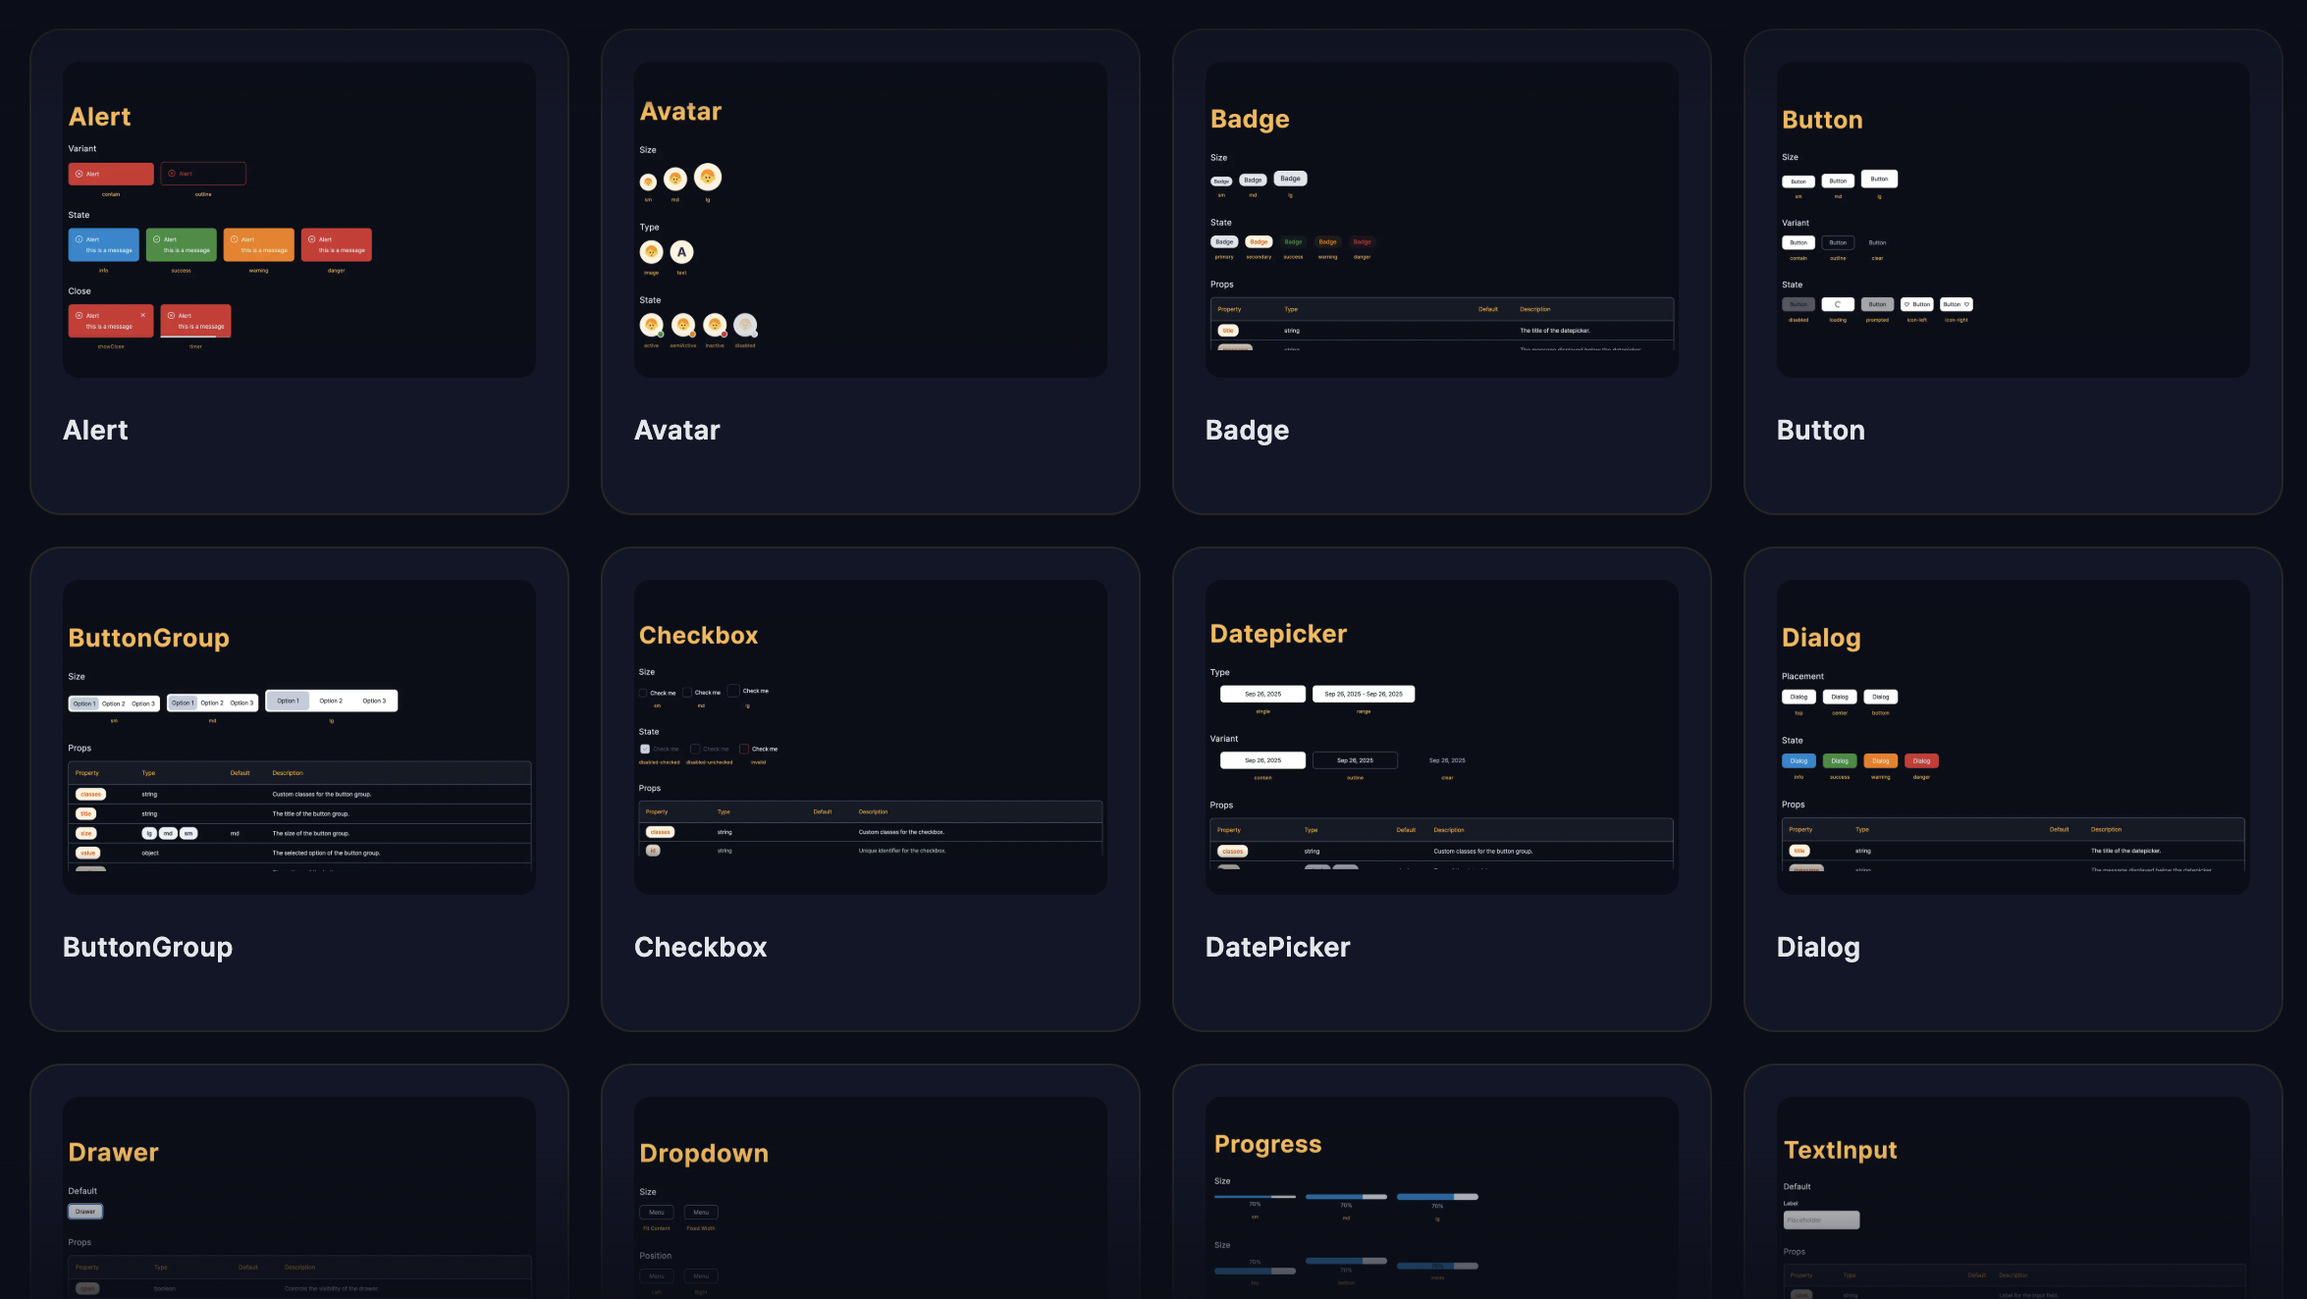
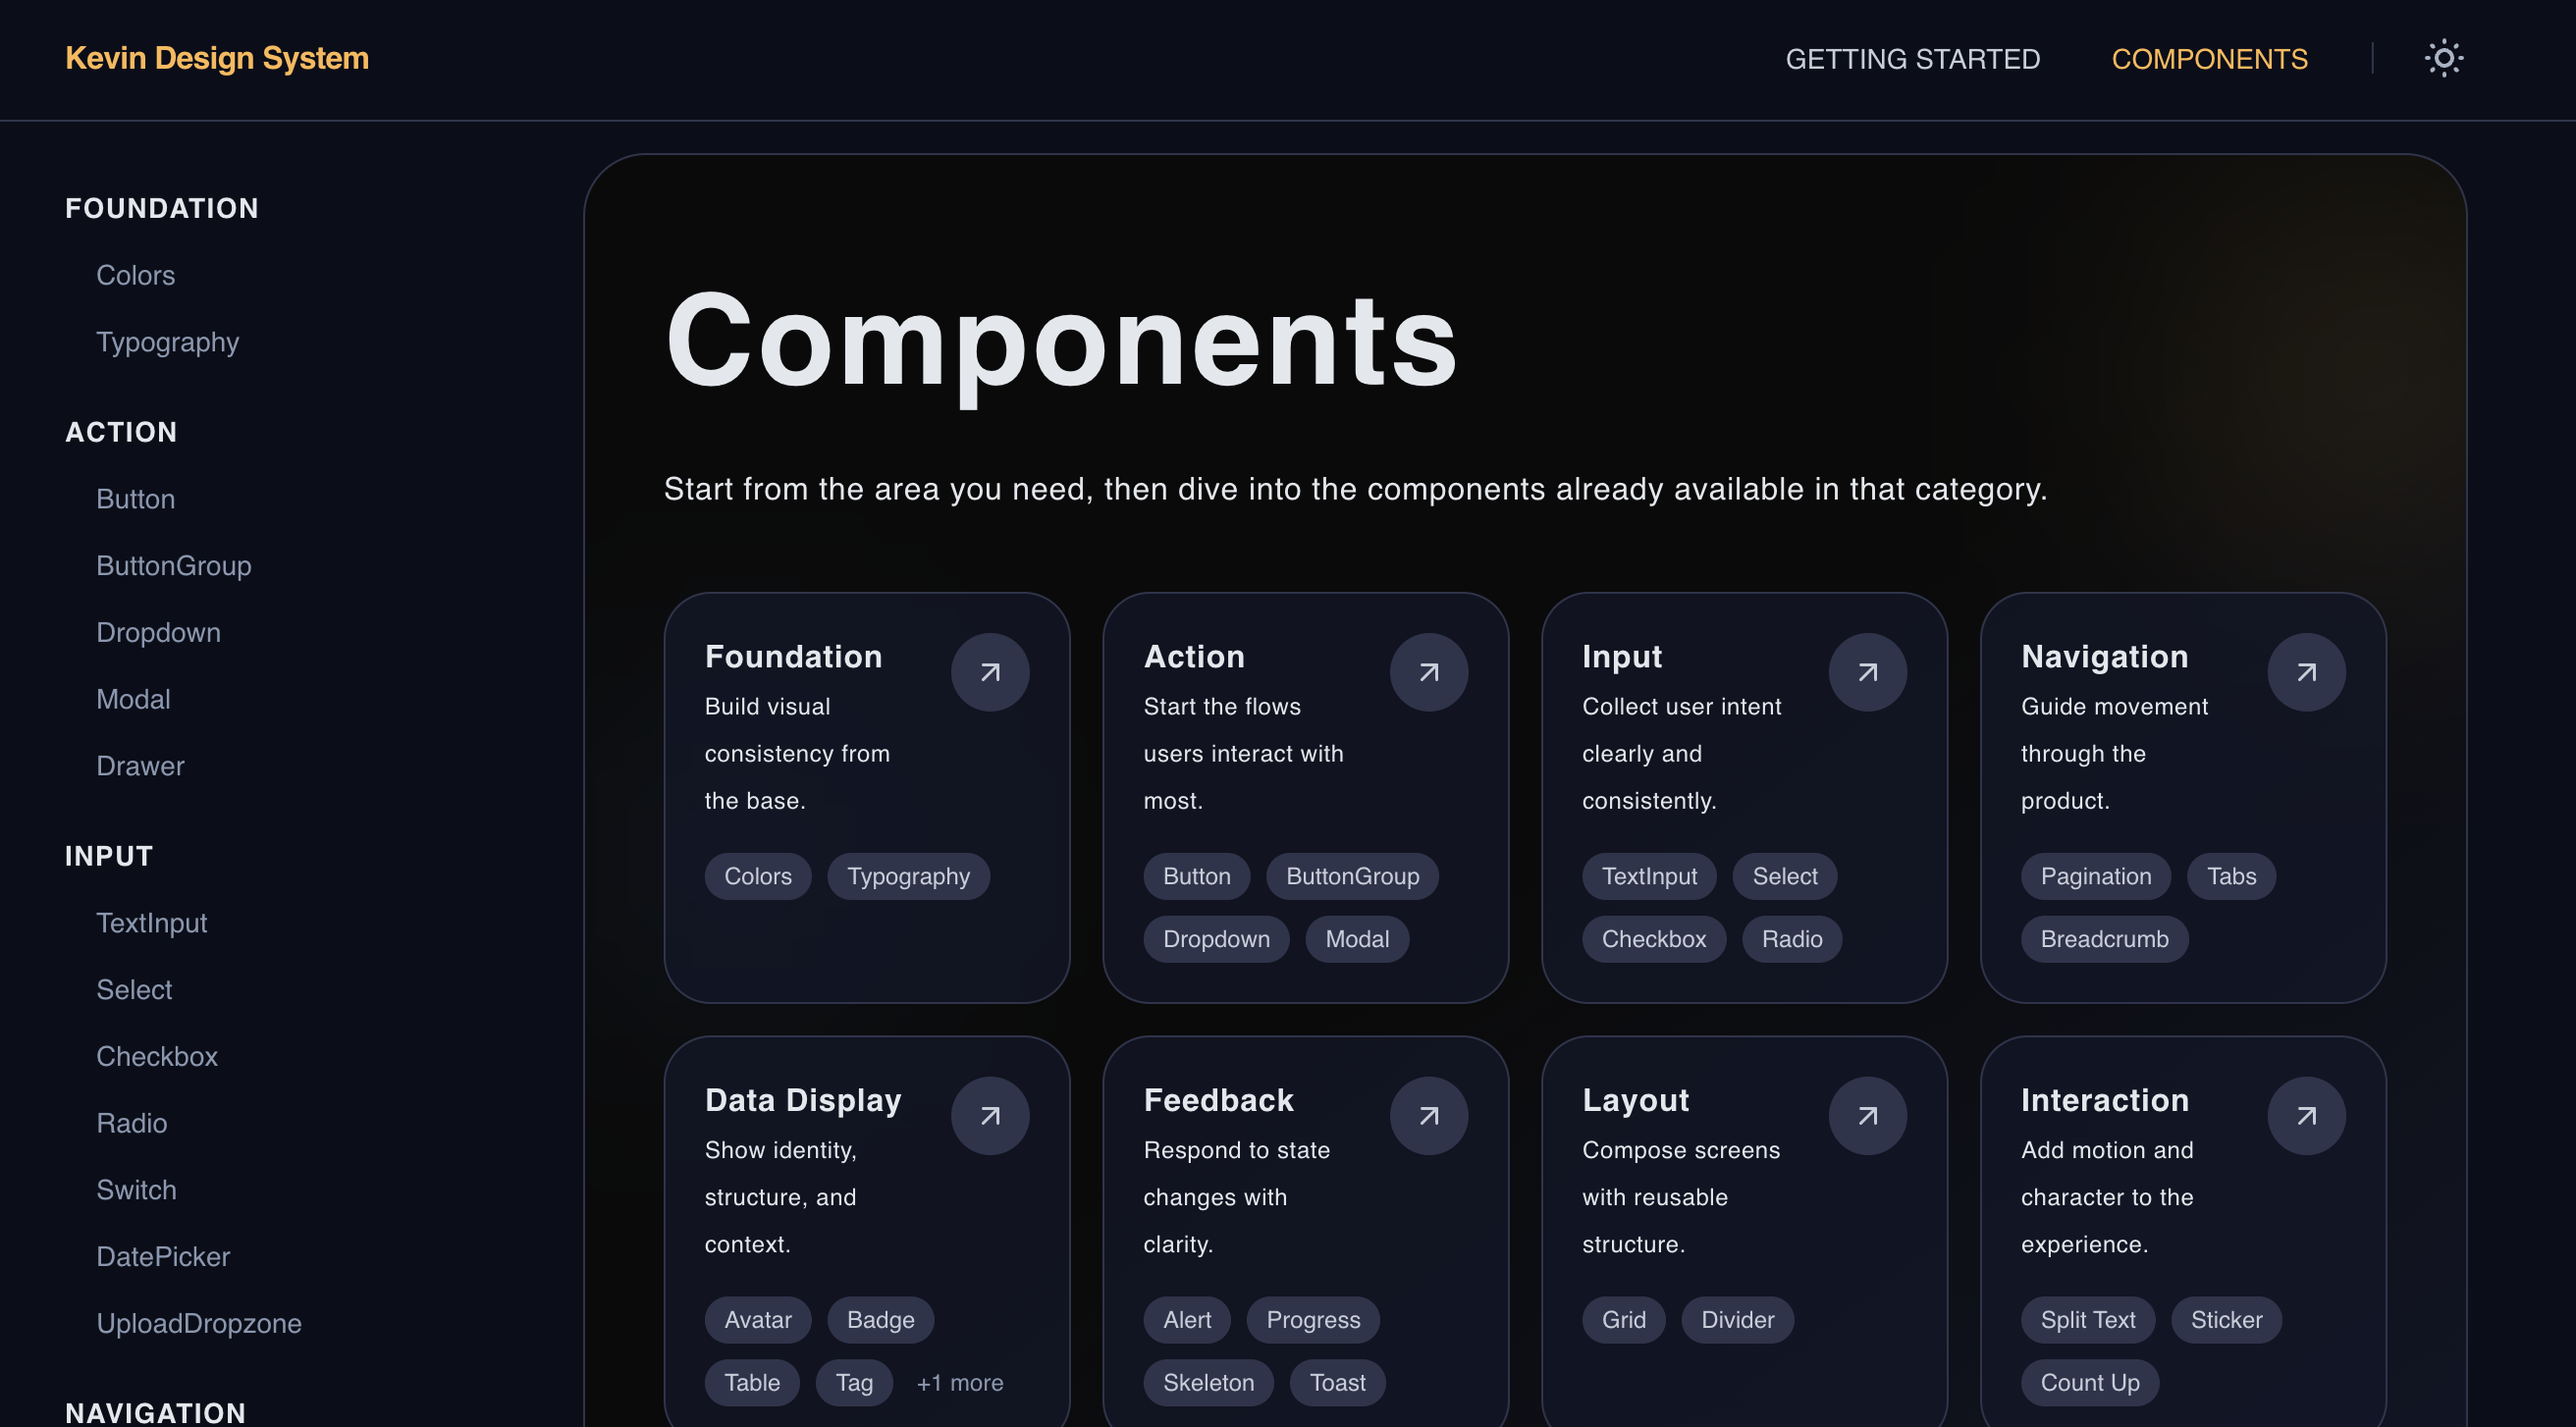
Update design system links and button behavior

diff --git a/src/design-system/components/Button.tsx b/src/design-system/components/Button.tsx
@@ -3,113 +3,170 @@
 'use client';
 
 import classNames from 'classnames';
-import { motion } from 'framer-motion';
+import { AnimatePresence, motion } from 'framer-motion';
 import React from 'react';
+import { LuArrowUpRight } from 'react-icons/lu';
 
-const Button = React.forwardRef((props: Common.ButtonProps, ref: React.Ref<HTMLButtonElement>) => {
+const baseClasses =
+  'inline-flex items-center justify-center rounded-lg text-center font-medium transition-all duration-200 ease-in-out select-none outline-none disabled:cursor-not-allowed disabled:opacity-50 active:scale-[0.97]';
+
+const sizeClasses: Record<Common.ButtonSize, string> = {
+  sm: 'h-[30px] px-2.5 text-xs gap-1.5',
+  md: 'h-[36px] px-4 text-sm gap-2',
+  lg: 'h-[44px] px-6 text-base gap-2.5',
+};
+
+const variantColorClasses: Record<
+  Common.ButtonVariant,
+  Record<Common.ButtonColor, string>
+> = {
+  contain: {
+    primary: 'bg-primary-100 text-primary-800 hover:bg-primary-200 active:bg-primary-200',
+    neutral: 'bg-neutral-800 text-white hover:bg-neutral-700 active:bg-neutral-700',
+    info: 'bg-info text-white hover:opacity-90',
+    success: 'bg-success text-white hover:opacity-90',
+    warning: 'bg-warning text-white hover:opacity-90',
+    danger: 'bg-danger text-white hover:opacity-90',
+  },
+  outline: {
+    primary: 'border border-primary-500 text-primary-300 hover:bg-primary-800/20',
+    neutral: 'border border-neutral-500 text-neutral-100 hover:bg-neutral-800/60',
+    info: 'border border-info text-info hover:bg-info/10',
+    success: 'border border-success text-success hover:bg-success/10',
+    warning: 'border border-warning text-warning hover:bg-warning/10',
+    danger: 'border border-danger text-danger hover:bg-danger/10',
+  },
+  clear: {
+    primary: 'text-primary-300 hover:bg-primary-800/20',
+    neutral: 'text-neutral-100 hover:bg-neutral-800/60',
+    info: 'text-info hover:bg-info/10',
+    success: 'text-success hover:bg-success/10',
+    warning: 'text-warning hover:bg-warning/10',
+    danger: 'text-danger hover:bg-danger/10',
+  },
+};
+
+const Button = React.forwardRef<
+  HTMLButtonElement | HTMLAnchorElement,
+  Common.ButtonProps
+>((props, ref) => {
   const {
-    classes = '',
+    classes,
+    className,
     type = 'button',
     children = null,
     size = 'md',
     variant = 'contain',
     color = 'primary',
-    /** state start */
     disabled = false,
     loading = false,
     prompted = false,
-    /** state end */
     shape = 'rect',
+    justify = 'center',
+    fullWidth = false,
     icon,
+    href,
+    target,
+    rel,
     iconPosition = 'left',
     onClick,
+    ...rest
   } = props;
 
-  const baseClasses =
-    'flex items-center justify-center px-2 py-[6px] rounded-lg text-sm text-center font-normal transition-all duration-200 ease-in-out';
+  const resolvedIcon = href && !icon ? <LuArrowUpRight className="text-[1.05em]" /> : icon;
+  const resolvedIconPosition = href && !icon ? 'right' : iconPosition;
 
-  const sizeClasses = {
-    sm: 'h-[30px] text-xs w-max',
-    md: 'h-[34px] text-sm',
-    lg: 'h-[44px] !px-6 text-lg',
-  };
+  const resolvedClasses = classNames(
+    baseClasses,
+    sizeClasses[size],
+    variantColorClasses[variant][color],
+    shape === 'circle' && 'aspect-square !rounded-full !p-0',
+    fullWidth && 'w-full',
+    prompted && 'animate-flash-fast',
+    disabled && 'pointer-events-none',
+    classes || className,
+  );
 
-  const getClearColorClasses = (buttonColor: Common.ButtonColor) => {
-    const colors = {
-      primary: 'text-primary-300',
-      info: 'text-info',
-      success: 'text-success',
-      warning: 'text-warning',
-      danger: 'text-danger',
-    };
-    return colors[buttonColor];
-  };
-
-  const getOutlineClasses = (buttonColor: Common.ButtonColor) => {
-    const styles = {
-      primary: 'border-primary-500 text-primary-300',
-      info: 'border-info !text-info',
-      success: 'border-success !text-success',
-      warning: 'border-warning !text-warning',
-      danger: 'border-danger !text-danger',
-    };
-    return styles[buttonColor];
-  };
-
-  const getContainClasses = (buttonColor: Common.ButtonColor) => {
-    const styles = {
-      primary:
-        'bg-primary-100 hover:bg-primary-200 active:bg-primary-200 disabled:active:!bg-white disabled:hover:!bg-white text-primary-800',
-      info: 'bg-info !text-neutral-200',
-      success: 'bg-success !text-neutral-200',
-      warning: 'bg-warning !text-neutral-200',
-      danger: 'bg-danger !text-neutral-200',
-    };
-    return styles[buttonColor];
-  };
-
-  return (
-    <button
-      type={type === 'button' ? 'button' : 'submit'}
-      className={classNames(
-        baseClasses,
-        classes,
-        sizeClasses[size],
-        {
-          'hover:bg-primary-800/30 active:bg-primary-600/30 disabled:!bg-transparent':
-            variant === 'clear',
-          'hover:bg-primary-800/30 active:bg-primary-600/30 border disabled:!bg-transparent':
-            variant === 'outline',
-        },
-        variant === 'clear' && getClearColorClasses(color),
-        variant === 'outline' && getOutlineClasses(color),
-        variant === 'contain' && getContainClasses(color),
-        disabled && 'cursor-not-allowed opacity-30',
-        prompted && 'animate-flash-fast cursor-pointer',
-        shape === 'circle' && 'aspect-square !rounded-full p-0',
-      )}
-      disabled={disabled}
-      ref={ref}
-      onClick={onClick}
-    >
+  const content = (
+    <AnimatePresence mode="wait" initial={false}>
       {loading ? (
         <motion.div
-          className="border-primary-400 size-4 rounded-full border-[3px] border-t-transparent"
-          animate={{ rotate: 360 }}
-          transition={{
-            repeat: Infinity,
-            ease: 'linear',
-            duration: 1,
-          }}
-        />
+          key="loader"
+          initial={{ opacity: 0, scale: 0.8 }}
+          animate={{ opacity: 1, scale: 1 }}
+          exit={{ opacity: 0, scale: 0.8 }}
+          className="flex items-center justify-center"
+        >
+          <svg className="size-4 animate-spin text-current" fill="none" viewBox="0 0 24 24">
+            <circle
+              className="opacity-25"
+              cx="12"
+              cy="12"
+              r="10"
+              stroke="currentColor"
+              strokeWidth="4"
+            />
+            <path
+              className="opacity-75"
+              fill="currentColor"
+              d="M4 12a8 8 0 018-8V0C5.373 0 0 5.373 0 12h4zm2 5.291A7.962 7.962 0 014 12H0c0 3.042 1.135 5.824 3 7.938l3-2.647z"
+            />
+          </svg>
+        </motion.div>
       ) : (
-        <>
-          {icon && iconPosition === 'left' && <span className="mr-1">{icon}</span>}
+        <motion.div
+          key="content"
+          initial={{ opacity: 0 }}
+          animate={{ opacity: 1 }}
+          exit={{ opacity: 0 }}
+          className={classNames(
+            'flex w-full items-center gap-[inherit]',
+            justify === 'start' ? 'justify-start text-left' : 'justify-center',
+          )}
+        >
+          {resolvedIcon && resolvedIconPosition === 'left' && (
+            <span className="flex shrink-0">{resolvedIcon}</span>
+          )}
           {children}
-          {icon && iconPosition === 'right' && <span className="ml-1">{icon}</span>}
-        </>
+          {resolvedIcon && resolvedIconPosition === 'right' && (
+            <span className="flex shrink-0">{resolvedIcon}</span>
+          )}
+        </motion.div>
       )}
-    </button>
+    </AnimatePresence>
+  );
+
+  if (href) {
+    return (
+      <motion.a
+        {...rest}
+        ref={ref as React.Ref<HTMLAnchorElement>}
+        href={href}
+        target={target}
+        rel={rel}
+        onClick={onClick}
+        whileTap={{ scale: 0.97 }}
+        transition={{ type: 'spring', stiffness: 500, damping: 30 }}
+        className={resolvedClasses}
+      >
+        {content}
+      </motion.a>
+    );
+  }
+
+  return (
+    <motion.button
+      {...rest}
+      ref={ref as React.Ref<HTMLButtonElement>}
+      type={type}
+      onClick={onClick}
+      disabled={disabled || loading}
+      whileTap={{ scale: 0.97 }}
+      transition={{ type: 'spring', stiffness: 500, damping: 30 }}
+      className={resolvedClasses}
+    >
+      {content}
+    </motion.button>
   );
 });
 

diff --git a/src/app/page.tsx b/src/app/page.tsx
@@ -6,6 +6,7 @@ import Section2 from '@/design-system/home/Section2';
 import Section3 from '@/design-system/home/Section3';
 import Section4 from '@/design-system/home/Section4';
 import PlanetBackground from '@/design-system/layout/PlanetBackground';
+import { KEVIN_DESIGN_SYSTEM_URL } from '@/constants/externalLinks';
 import classNames from 'classnames';
 
 export default function Index() {
@@ -14,7 +15,7 @@ export default function Index() {
     year: '2025.07~2025.09',
     imageUrl: '/image/designsystem_thumbnail.png',
     altText: 'Design System Thumbnail',
-    href: '/design-system',
+    href: KEVIN_DESIGN_SYSTEM_URL,
     spec: ['Next.js', 'TypeScript', 'Tailwind CSS', 'HTML/CSS'],
     desc: 'A comprehensive design system and component library built with React, Next.js, and Tailwind CSS to streamline UI development and ensure design consistency across projects.',
     contents: [
@@ -45,24 +46,20 @@ export default function Index() {
               'h-full w-full object-cover brightness-50 transition-all duration-500 ease-in-out',
             )}
           />
-
-          <div className="absolute top-4 right-4 flex items-center gap-2 rounded-full border border-white/20 bg-black/50 px-3 py-1.5 backdrop-blur-md">
-            <span className="relative flex h-2 w-2">
-              <span className="absolute inline-flex h-full w-full animate-ping rounded-full bg-green-400 opacity-75"></span>
-              <span className="relative inline-flex h-2 w-2 rounded-full bg-green-500"></span>
-            </span>
-            <span className="text-[10px] font-bold tracking-wider text-white uppercase">
-              Under Development
-            </span>
-          </div>
         </div>
 
         <Typography variant="H3" classes={'!text-neutral-100 !font-semibold'}>
           {designSystem.title}
         </Typography>
 
-        <Button variant="contain" size="sm" onClick={() => window.open('/design-system', '_self')}>
-          Explore System
+        <Button
+          variant="contain"
+          size="sm"
+          href={designSystem.href}
+          target="_blank"
+          rel="noopener noreferrer"
+        >
+          Open Design System
         </Button>
 
         <Typography variant="B2" classes={'!text-neutral-200 max-w-[480px] text-center'}>

diff --git a/src/design-system/layout/BreadCrumb.tsx b/src/design-system/layout/BreadCrumb.tsx
@@ -1,5 +1,6 @@
 'use client';
 
+import { KEVIN_DESIGN_SYSTEM_URL } from '@/constants/externalLinks';
 import classNames from 'classnames';
 import Link from 'next/link';
 import { usePathname } from 'next/navigation';
@@ -15,7 +16,9 @@ const BreadCrumb = (props: Layout.BreadCrumbProps) => {
     <nav aria-label="breadcrumb">
       <ol className="flex items-center gap-1">
         {items.map((item, index) => {
-          const isActive = pathname === item.href;
+          const resolvedHref = item.href === '/design-system' ? KEVIN_DESIGN_SYSTEM_URL : item.href;
+          const isExternal = resolvedHref?.startsWith('http');
+          const isActive = !isExternal && pathname === resolvedHref;
           return (
             <li
               key={item.label}
@@ -25,7 +28,17 @@ const BreadCrumb = (props: Layout.BreadCrumbProps) => {
                 'hover:text-neutral-300': !isActive && item.href,
               })}
             >
-              {item.href ? <Link href={item.href}>{item.label}</Link> : item.label}
+              {resolvedHref ? (
+                isExternal ? (
+                  <a href={resolvedHref} target="_blank" rel="noreferrer">
+                    {item.label}
+                  </a>
+                ) : (
+                  <Link href={resolvedHref}>{item.label}</Link>
+                )
+              ) : (
+                item.label
+              )}
               {index < items.length - 1 && <FaChevronRight className="text-xs text-neutral-200" />}
             </li>
           );

diff --git a/src/types/common.d.ts b/src/types/common.d.ts
@@ -38,14 +38,16 @@ namespace Common {
     classes?: string;
   }
   /** Button */
-  type ButtonType = 'button' | 'submit';
+  type ButtonType = 'button' | 'submit' | 'reset';
   type ButtonSize = 'lg' | 'md' | 'sm';
   type ButtonVariant = 'contain' | 'outline' | 'clear';
-  type ButtonColor = 'primary' | 'info' | 'success' | 'warning' | 'danger';
+  type ButtonColor = 'primary' | 'neutral' | 'info' | 'success' | 'warning' | 'danger';
   type ButtonIconPosition = 'left' | 'right';
   type ButtonShape = 'rect' | 'circle';
+  type ButtonJustify = 'start' | 'center';
   interface ButtonProps {
     classes?: string;
+    className?: string;
     type?: ButtonType;
     children?: React.ReactNode;
     size?: ButtonSize;
@@ -57,9 +59,16 @@ namespace Common {
     prompted?: boolean;
     /** state end */
     shape?: ButtonShape;
+    justify?: ButtonJustify;
+    fullWidth?: boolean;
     icon?: React.ReactNode;
+    href?: string;
+    target?: React.HTMLAttributeAnchorTarget;
+    rel?: string;
     iconPosition?: ButtonIconPosition;
-    onClick?: (e) => void;
+    id?: string;
+    style?: React.CSSProperties;
+    onClick?: (e: React.MouseEvent<HTMLElement>) => void;
   }
 
   /** ButtonGroup */

diff --git a/src/design-system/layout/ProjectModal.tsx b/src/design-system/layout/ProjectModal.tsx
@@ -89,7 +89,7 @@ export default function ProjectModal({
                         variant="contain"
                         size="sm"
                         classes="!w-[30px]"
-                        onClick={() => window.open(href, '_blank')}
+                        onClick={() => window.open(href, '_blank', 'noopener,noreferrer')}
                       >
                         <LuExternalLink className="text-lg" />
                       </Button>

diff --git a/src/constants/externalLinks.ts b/src/constants/externalLinks.ts
@@ -1,0 +1,1 @@
+export const KEVIN_DESIGN_SYSTEM_URL = 'https://kevin-design-system.vercel.app/';
